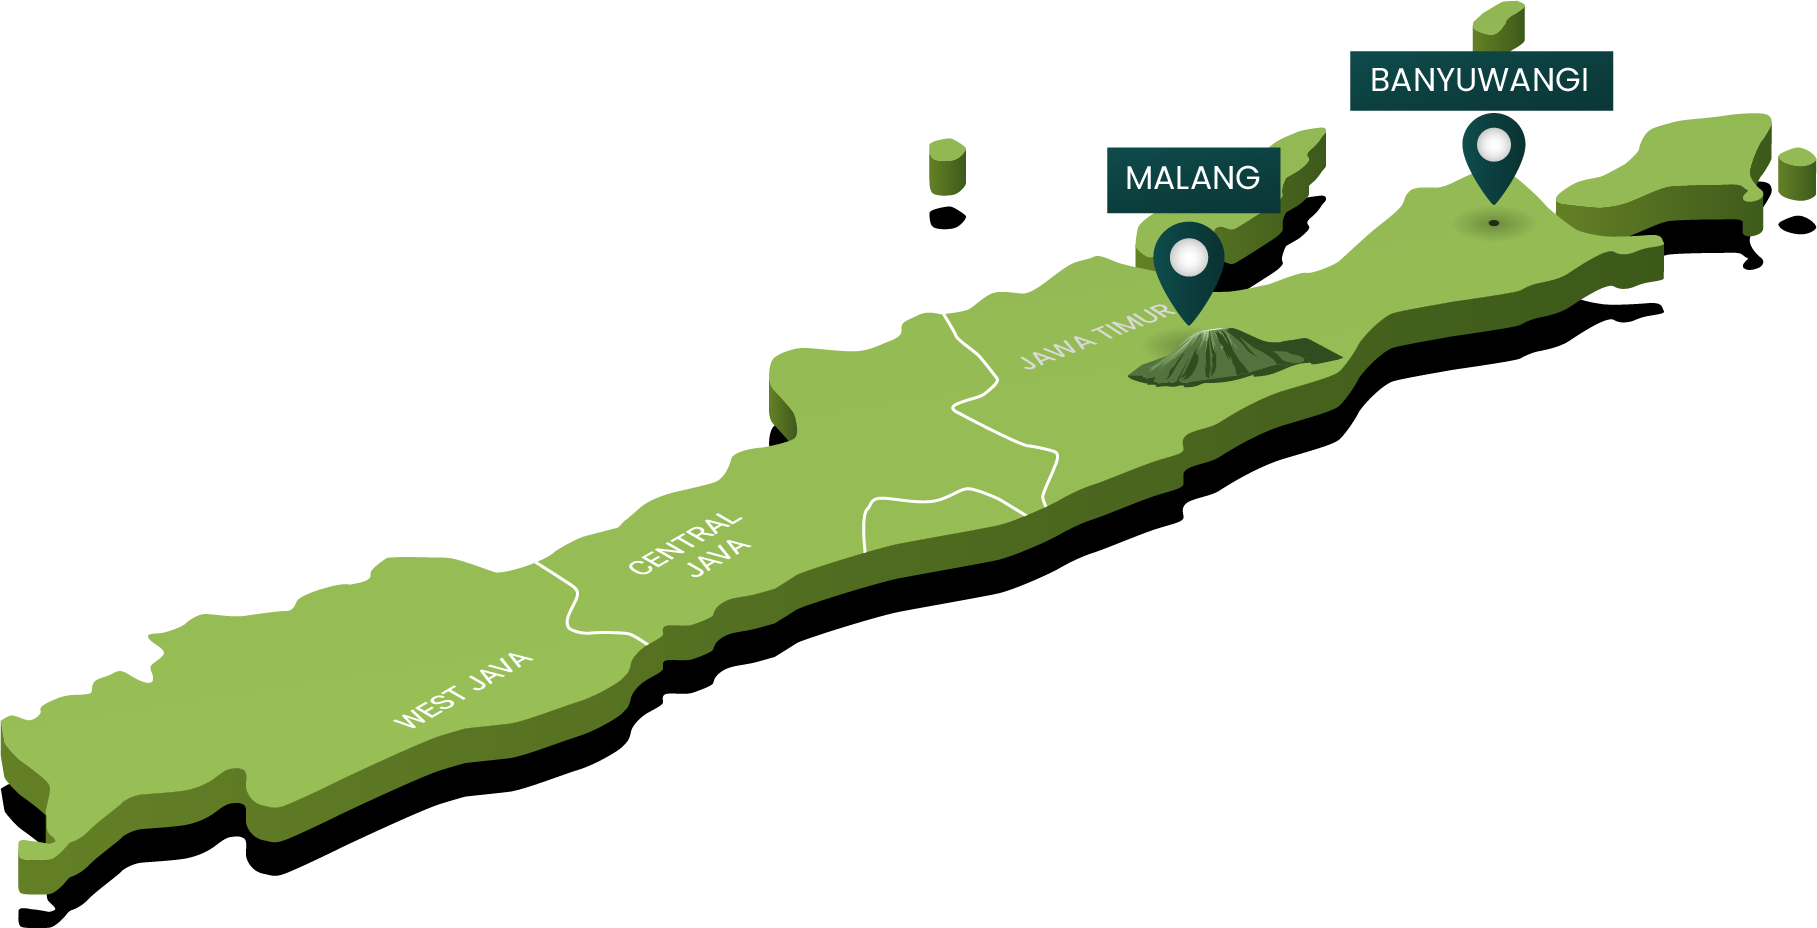
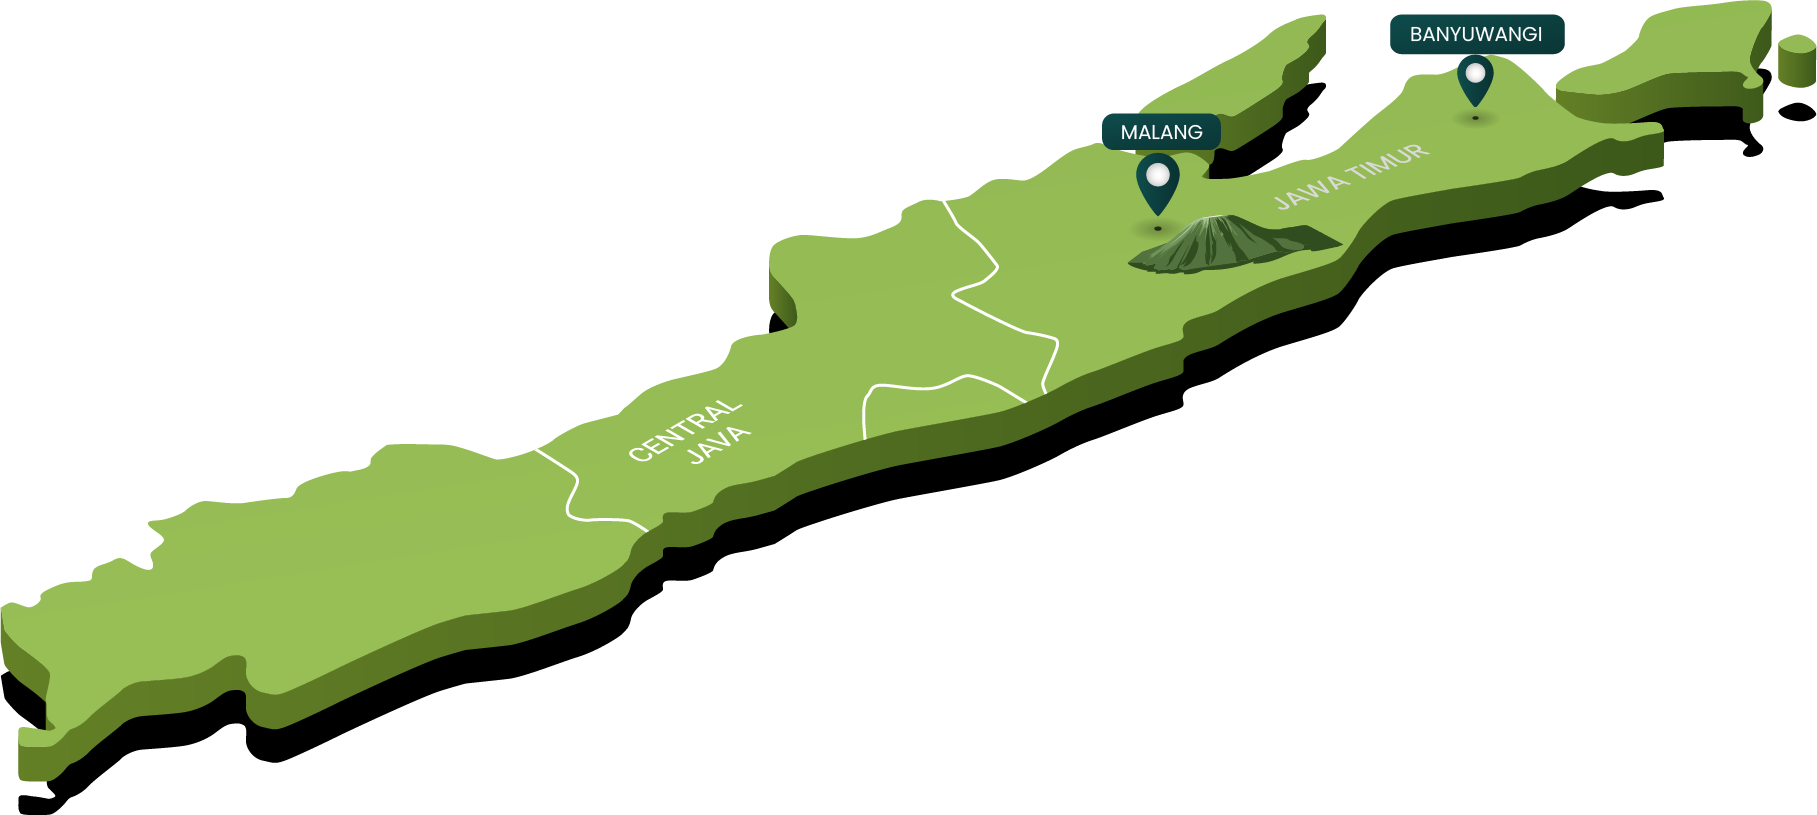
ded

Changed region(s): [[0.0, 0.0, 1.0, 0.9816]]

diff --git a/sass/style.css b/sass/style.css
@@ -1,2 +1,1 @@
-@import url("https://fonts.googleapis.com/css2?family=Poppins:wght@400;700&family=Tilt+Neon&family=Outfit:wght@400;700&family=Prompt:wght@400;700&display=swap");section{padding:32px 0;min-height:100vh;z-index:11;background:#eee;position:relative}.wrap-detikx{width:700px;margin:0 auto}@media screen and (max-width: 766px){.wrap-detikx{width:90%;margin:0 auto;display:block}}.totop{position:relative;z-index:19}.firstletter::first-letter{float:left;font-weight:bold;margin-right:8px;font-size:60px;font-size:6rem;line-height:40px;line-height:4rem;height:4rem;text-transform:uppercase}main{overflow-x:clip}html,body{position:relative;height:100%;font-family:'Poppins'}html h2,html h3,body h2,body h3{font-weight:700;font-family:'Poppins'}.opening{background:linear-gradient(to top, #74a3b3, #e2eaed, #74a3b3);padding:0}.opening .peta{position:absolute;right:-10%;bottom:-50%;width:150%;height:auto}@media screen and (max-width: 768px){.opening .peta{bottom:0}}.opening .peta img{width:100%;height:100%;object-fit:cover}.opening .kotak-aja{position:absolute;inset:0;width:100%;height:100%}.opening .kotak-aja img{width:100%;height:100%;object-fit:contain}@media screen and (max-width: 768px){.opening .kotak-aja img{object-fit:cover}}.opening .awan{position:relative;width:100%;height:auto;margin-bottom:16px}.opening .awan img{width:100%;height:100%;object-fit:contain}.cerita{background:#a55e3c;overflow:hidden}.cerita .abs{position:absolute}.cerita .abs-3{left:0;top:0;bottom:0;width:auto;height:100%}.cerita .abs-2{left:40%;top:-12%;bottom:0;width:auto}.cerita .abs-1{left:0%;width:auto;height:auto;bottom:0%}.cerita .abs img{width:100%;height:100%;object-fit:contain}.cerita .abs-rel{bottom:-32%;left:-30%;width:auto;height:80%}.cerita .abs.mobil-1{left:5%;bottom:45%;height:auto}.cerita .abs.mobil-2{left:20%;bottom:15%;height:auto}.cerita .abs.kereta-1{bottom:0;left:12%}.cerita .abs.kereta-2{bottom:0;left:10%}
-/*# sourceMappingURL=style.css.map */
+@import"https://fonts.googleapis.com/css2?family=Poppins:wght@400;700&family=Tilt+Neon&family=Outfit:wght@400;700&family=Prompt:wght@400;700&display=swap";section{padding:32px 0;min-height:100vh;z-index:11;background:#eee;position:relative}.wrap-detikx{width:700px;margin:0 auto}@media screen and (max-width: 766px){.wrap-detikx{width:90%;margin:0 auto;display:block}}.totop{position:relative;z-index:19}.firstletter::first-letter{float:left;font-weight:bold;margin-right:8px;font-size:60px;font-size:6rem;line-height:40px;line-height:4rem;height:4rem;text-transform:uppercase}main{overflow-x:clip}html,body{position:relative;height:100%;font-family:"Poppins"}html h2,html h3,body h2,body h3{font-weight:700;font-family:"Poppins"}.opening{background:linear-gradient(to bottom, rgba(145, 191, 207, 0.8), #e2eaed);padding:0}.opening .peta{position:absolute;right:-10%;bottom:-87%;width:150%;height:auto}@media screen and (max-width: 768px){.opening .peta{bottom:-16%;width:250%;right:-20%}}.opening .peta img{width:100%;height:100%;object-fit:cover}.opening .kotak-aja{position:absolute;inset:0;width:100%;height:100%}.opening .kotak-aja img{width:100%;height:100%;object-fit:contain}@media screen and (max-width: 768px){.opening .kotak-aja img{object-fit:cover}}.opening .awan{position:relative;width:100%;height:auto;margin-bottom:16px}.opening .awan img{width:100%;height:100%;object-fit:contain}.cerita{background:#a55e3c;overflow:hidden}.cerita .abs{position:absolute}.cerita .abs-3{left:0;top:0;bottom:0;width:auto;height:140%}.cerita .abs-2{left:35vw;top:-12vh;bottom:0;width:auto;height:80%}.cerita .abs-1{left:-20vw;width:auto;height:140%;bottom:-10vh}.cerita .abs img{width:100%;height:100%;object-fit:contain}.cerita .abs-rel{bottom:-36vh;left:-36vw;width:auto;height:100%}.cerita .abs.mobil-1{left:5%;bottom:45%;height:40vh}.cerita .abs.mobil-2{left:20%;bottom:24vh;height:30vh}.cerita .abs.kereta-1{bottom:0;left:8vw}.cerita .abs.kereta-2{bottom:0;left:8vw}/*# sourceMappingURL=style.css.map */

diff --git a/sass/cerita.scss b/sass/cerita.scss
@@ -9,19 +9,20 @@
             top: 0;
             bottom: 0;
             width: auto;
-            height: 100%;
+            height: 140%;
         }
         &-2 {
-            left: 40%;
-            top: -12%;
+            left: 35vw;
+            top: -12vh;
             bottom: 0;
             width: auto;
+            height: 80%;
         }
         &-1 {
-            left: 0%;
+            left: -20vw;
             width: auto;
-            height: auto;
-            bottom: 0%;
+            height: 140%;
+            bottom: -10vh;
         }
         img {
             width: 100%;
@@ -29,31 +30,30 @@
             object-fit: contain;
         }
         &-rel {
-            bottom: -32%;
-            left: -30%;
+            bottom: -36vh;
+            left: -36vw;
             width: auto;
-            height: 80%;
+            height: 100%;
         }
         &.mobil-1 {
             left: 5%;
             bottom: 45%;
-            // width: 300px;
-            height: auto;
+            height: 40vh;
         }
         &.mobil-2 {
             left: 20%;
-            bottom: 15%;
-            // width: 240px;
-            height: auto;
+            bottom: 24vh;
+            height: 30vh;
+        
         }
         &.kereta-1 {
             bottom: 0;
-            left: 12%;
+            left: 8vw;
         }
 
         &.kereta-2 {
             bottom: 0;
-            left: 10%;
+            left: 8vw;
         }
     }
 }

diff --git a/sass/opening.scss b/sass/opening.scss
@@ -1,14 +1,17 @@
 .opening {
-    background: linear-gradient(to top, #74a3b3, #e2eaed, #74a3b3);
+    // background: linear-gradient(to top, #74a3b3, #e2eaed, #74a3b3);
+    background: linear-gradient(to bottom, rgba(#91bfcf,.8), #e2eaed);
     padding: 0;
     .peta {
         position: absolute;
         right: -10%;
-        bottom: -50%;
+        bottom: -87%;
         width: 150%;
         height: auto;
         @media screen and (max-width:768px) {
-            bottom: 0;
+            bottom: -16%;
+            width: 250%;
+            right: -20%;
         }
         img {
             width: 100%;
